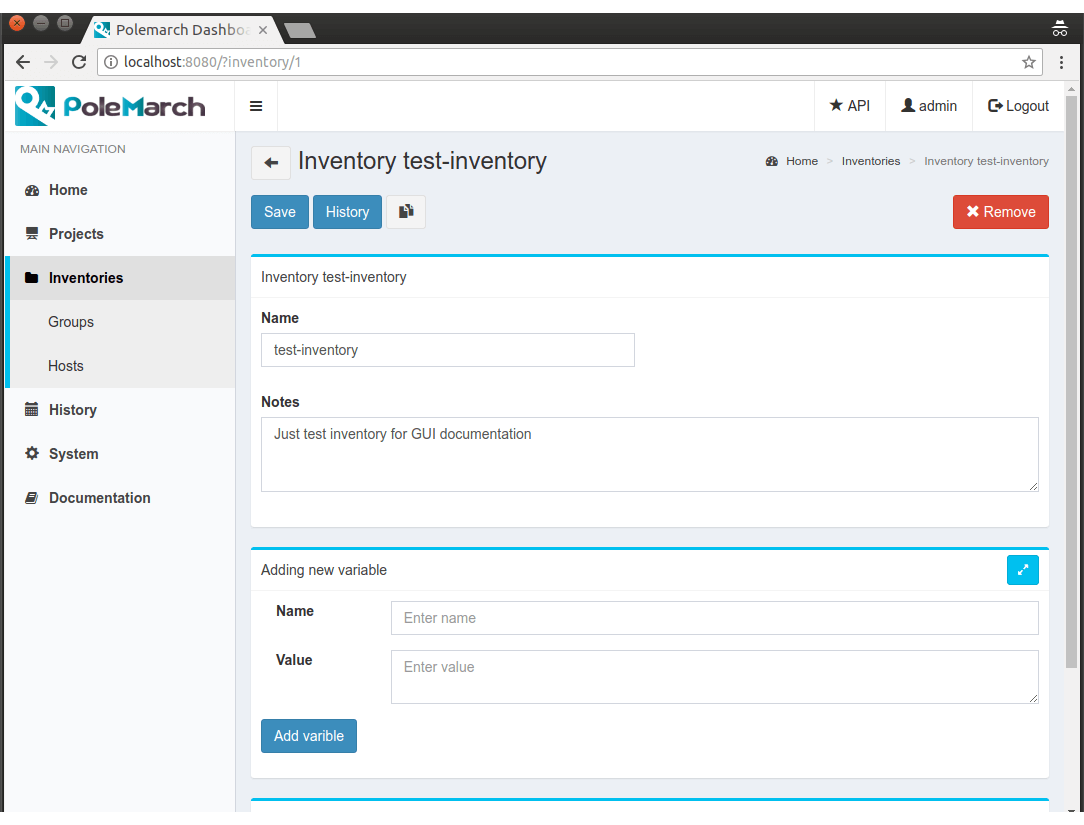
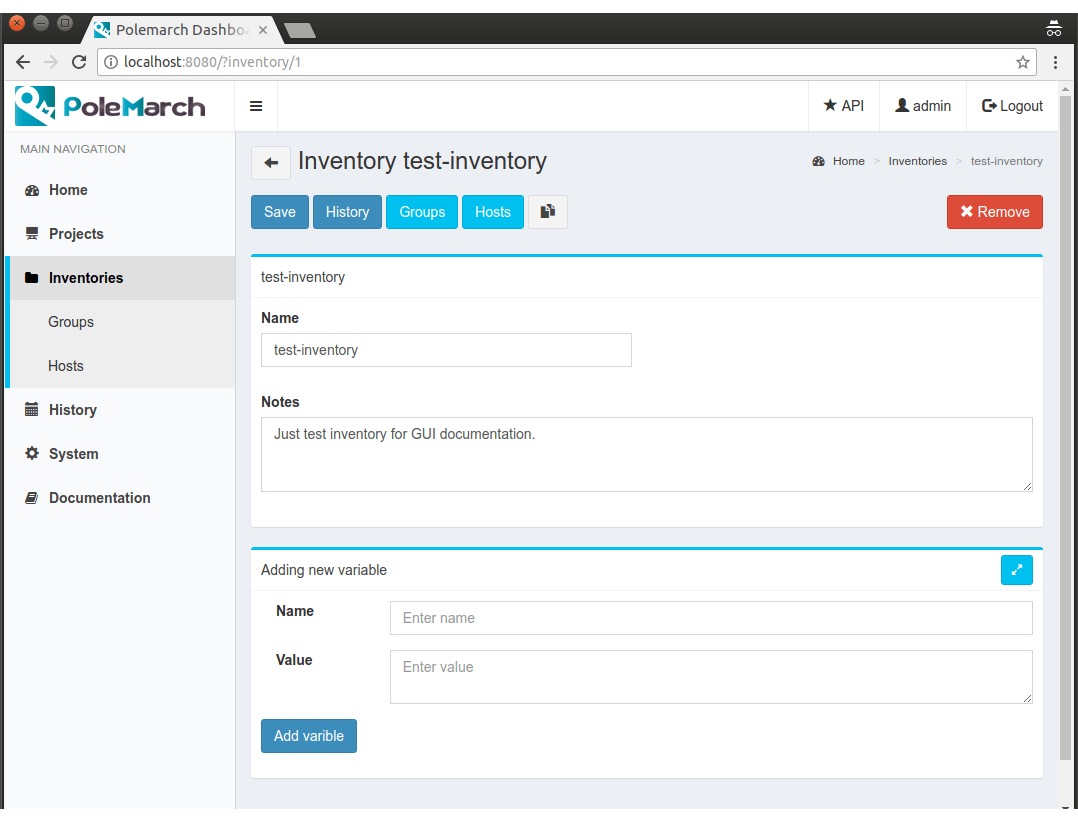
GUI workflow documentation was updated.
Screencast was updated.

polemarch/ce#35

[ci skip]

close vstconsulting/polemarch#42

diff --git a/doc/gui.rst b/doc/gui.rst
@@ -73,29 +73,25 @@ Section "Adding new variable":
 After inventory creation you will see the next page:
 
 .. image:: gui_png/test-inventory.png
-.. image:: gui_png/test-inventory2.png
 
 There are some new buttons here:
 
 * **save** - this button saves all changes you have made on this page.
 * **history** - this button opens history list of inventory executions.
+* **groups** - this button opens subgroups list of this inventory.
+* **hosts** - this button opens subhosts list of this inventory.
 
-As you can see, also new "Sub items" section has appeared. This section has 4 buttons:
-
-* **edit existing groups** - this button gives you an opportunity to add to inventory groups, that are already created,
-  or to delete some groups from this inventory.
-
-* **create new group** - this button gives you an opportunity to create new group and add it to this inventory.
-
-* **edit existing hosts** - this button gives you an opportunity to add to inventory hosts, that are already created,
-  or to delete some hosts from this inventory.
-
-* **create new host** - this button gives you an opportunity to create new host and add it to this inventory.
-
-Let's look how you can create a group.
+Let's look how you can create a group for this inventory.
+To do it, let's click on 'Groups' button.
 
 Groups
 ------
+
+.. image:: gui_png/test-inventory-group-list.png
+
+As you can see, on this page you can either create new group or just add existing one.
+
+Let's click on 'Create' button.
 
 .. image:: gui_png/create-new-group.png
 
@@ -121,21 +117,25 @@ After group creation you will see the next page:
 .. image:: gui_png/test-group.png
 .. image:: gui_png/test-group2.png
 
-As you can see, new "Variables" and "Sub item" sections have appeared.
+As you can see, there are 2 new buttons here:
 
-"Sub item" section has 2 buttons:
+* **hosts** - this button opens subhosts list of this group.
+* **remove from parent group** - this button removes our new host from current
+  group's hosts  list, but does not delete it from system.
 
-* **edit existing hosts** - this button gives you an opportunity to add to inventory hosts, that are already created,
-  or to delete some hosts from this inventory.
-
-* **create new host** - this button gives you an opportunity to create new host and add it to this inventory.
-
+Also new "Variables" section has appeared.
 "Variables" section has a list of variables that user have chosen during group creation.
 
-Let's look how you can create a host.
+Let's look how you can create a host for this group.
 
 Hosts
 -----
+
+.. image:: gui_png/test-group-hosts-list.png
+
+As you can see, on this page you can either create new host or just add existing one.
+
+Let's click on 'Create' button.
 
 .. image:: gui_png/create-new-host.png
 
@@ -158,7 +158,11 @@ After host creation you will see the next page:
 
 .. image:: gui_png/test-host.png
 
-As you can see, new "Variables" section has appeared and it has a list of variables that user have chosen during host creation.
+As you can see, new button 'Remove from parent group' has appeared.
+This button removes our new host from current group's hosts  list, but does not
+delete it from system.
+
+Also new "Variables" section has appeared and it has a list of variables that user have chosen during host creation.
 
 Projects
 --------
@@ -225,7 +229,7 @@ Also there are 2 new fields:
 
 There is new section on this page:
 
-* **Reame.md** - if project has “readme.md” or “readme.rst” file in it’s project directory,
+* **reame.md** - if project has “readme.md” or “readme.rst” file in it’s project directory,
   Polemarch will add content of this file to this section.
 
 Also there are several buttons on this page:
